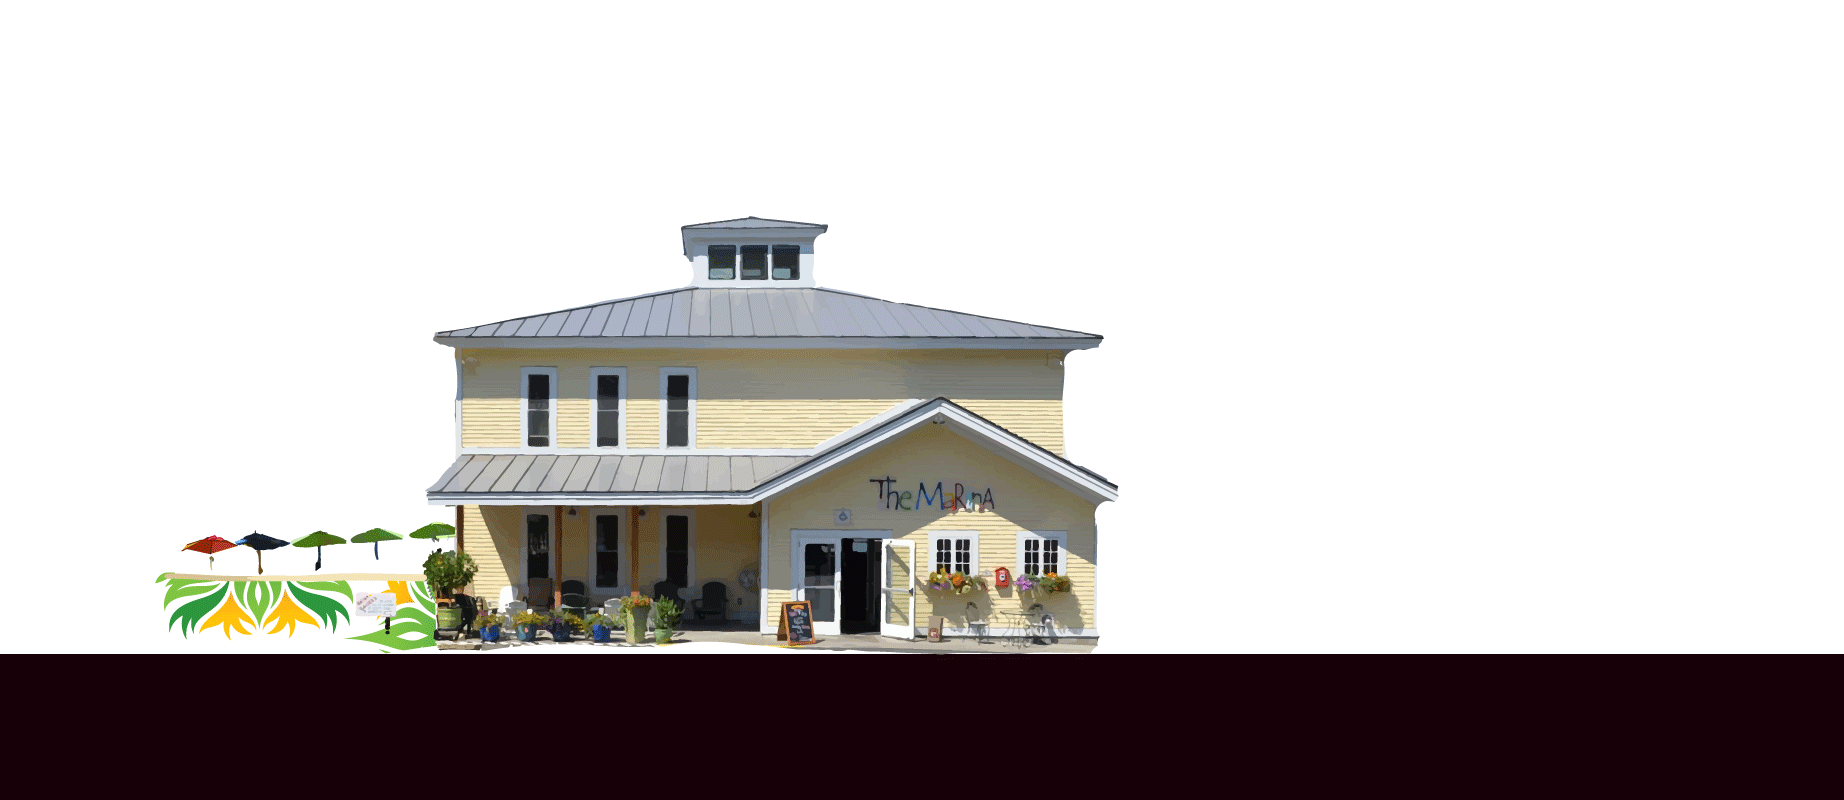
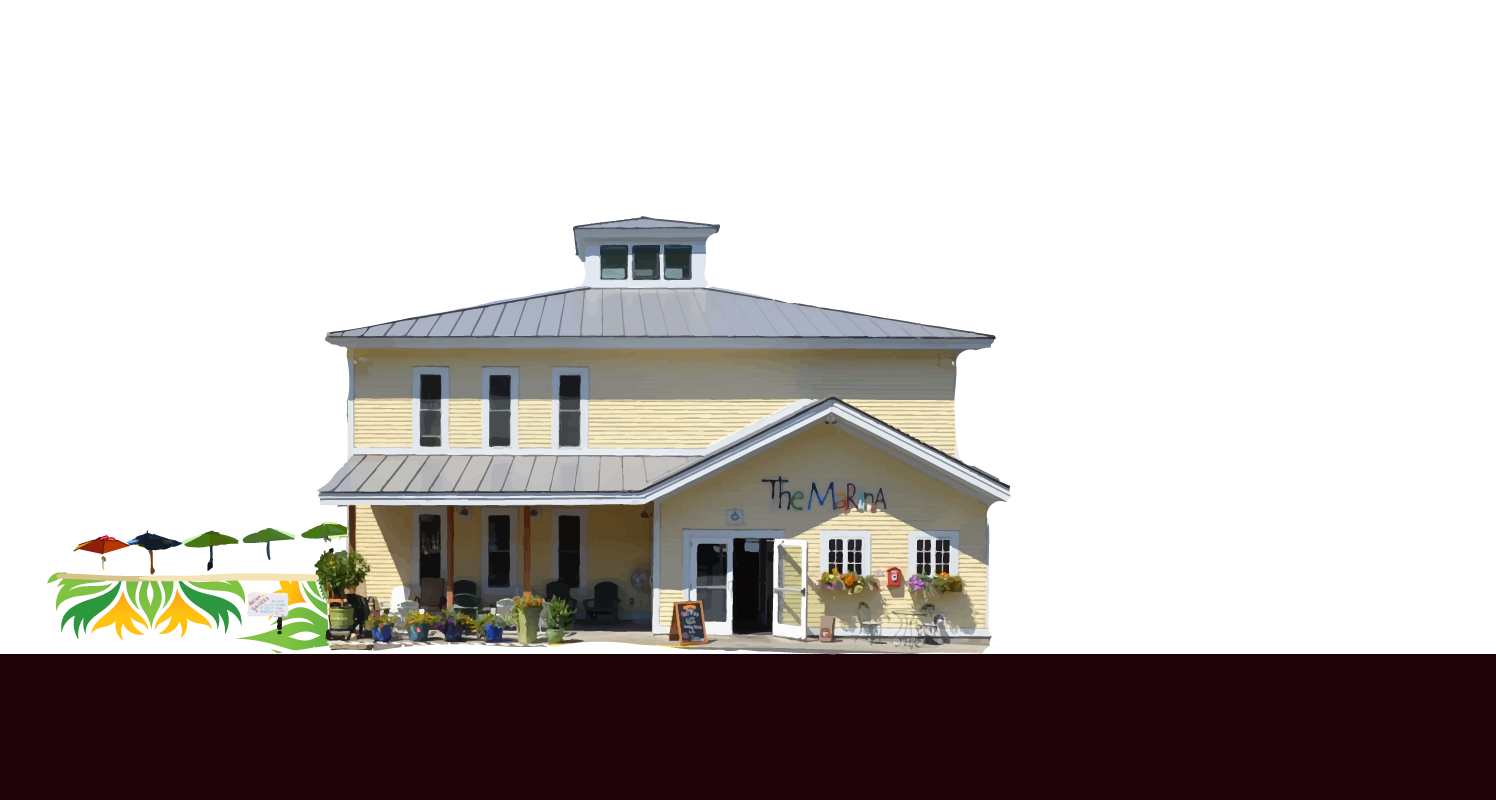
media queries    phone

Changed region(s): [[0.0307, 0.25, 0.6765, 0.8438]]

diff --git a/css/marina.css b/css/marina.css
@@ -24,8 +24,6 @@ h3{
   font-family: 'Exo 2', sans-serif;
 }
 
-
-
 .wrapper{
   height:800px;
   width:2400px;
@@ -450,6 +448,94 @@ height: 300;
   }
 }
 
+@media (max-width: 600px) {
+  html { }
+  .background-image{
+    position:relative;
+    z-index: -100;
+    width: 2000px;
+
+
+  }
+  .wrapper{
+  
+}
+  .lower-nav-mobile{
+    display: none;
+  }
+  .pages{
+    
+    position: relative;
+    top: 488px;
+    width: 30%;
+    margin-left: 63%;
+    min-width: 300px;
+    height:150px;
+    right:150px;
+  }
+  .seafood-logo{
+    height:90%;
+    width:90%;
+    position: relative;
+    
+    left:-130px;
+  }
+  .socialmedia{
+    top: 354px;
+  }
+  #prlx_lyr_1{
+    
+    top:;
+
+    background: url("../images/purple-mobile.png") no-repeat -199px -100px;
+
+  }
+
+
+
+.dragon {
+    position: absolute;
+    z-index: -5;
+    padding-left: 132%;
+    top: 318px;
+    }
+
+
+.lantern-container {
+    position: relative;
+    left: 1528px;
+    max-width: 620px;
+    top: 211px;
+    margin-left: 0px;
+    }
+
+.right-buttons{
+    position: relative;
+    top: 476px;
+    padding-left: 100px;
+    left: 1200px;
+}
+ #arrow-button {
+    background: black;
+    border-radius: 50%;
+    height: 40px;
+    position: fixed;
+    left: 50px;
+    top: 411px;
+    width: 40px;
+    z-index: 1;
+    text-decoration: none;
+    }
+
+
+    #content_layer {
+      position: absolute;
+      width: 1000px;
+      height: ;
+      min-height: 700px;
+      max-height: 700px;
+      z-index: -99;
+}
 
 
 /*div {

diff --git a/index.html b/index.html
@@ -45,7 +45,7 @@
 
     </script>
   </head>
-  <body class="body">
+  <body >
 <!-- Preloader -->
     <div id="preloader">
       <div id="status">&nbsp;</div>
@@ -54,7 +54,7 @@
     <div class="container wrapper">  
 <!-- Background layer -->
       <div id="content_layer"> 
-        <img id="doScroll" src="images/newblueskylayer6.jpg">
+        <img id="doScroll" class="background-image" src="images/newblueskylayer6.jpg">
       </div>
 <!-- Buliding layer -->
       <div id="prlx_lyr_1">
